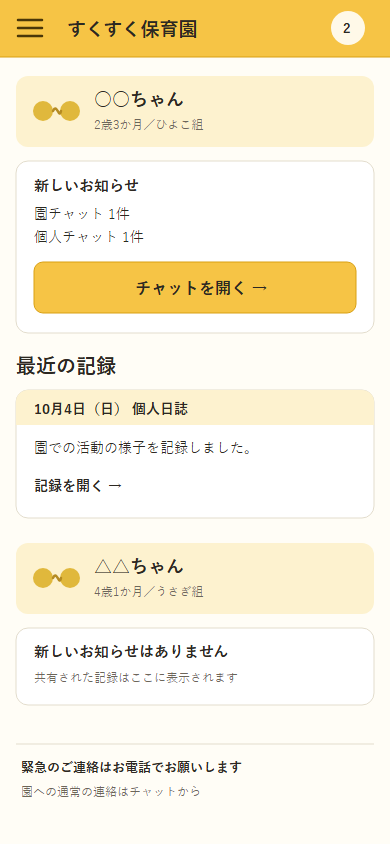
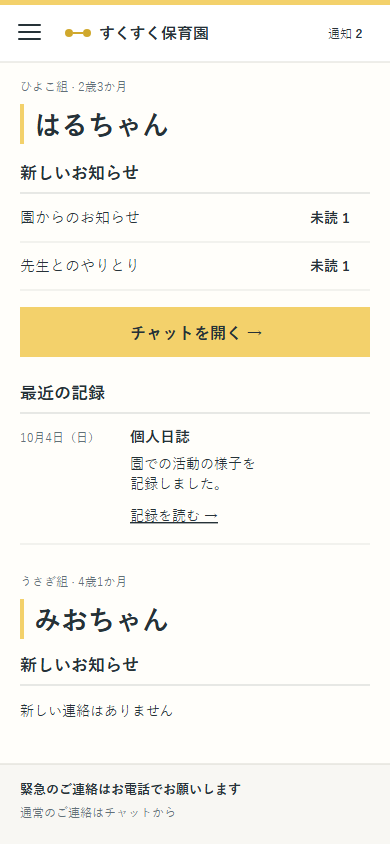
画面見本の汎用的な装飾を見直す

diff --git a/図/デザインアーキテクチャ案.md b/図/デザインアーキテクチャ案.md
@@ -4,16 +4,19 @@
 | :-- | :-- |
 | 状態 | チーム確認用のたたき台。要件・基本設計の確定事項は変更しない |
 | 作成日 | 2026-10-05 |
+| 改訂日 | 2026-10-05。GitHub Issue #72 を受け、初稿の均等なカード配置と飾りの線画を見直した |
 | 対象 | 職員ダッシュボード、保護者ホームを起点とする全画面の視覚表現 |
 | 典拠 | `README.md`「背景・コンセプト」「設計原則」、`要件定義書.md`「コンセプトとターゲット層」(1-1)、`基本設計書.md`「画面基本構成」(3-5)、`図/画面詳細図.md`「共通レイアウト」(1)・「職員ダッシュボード」(2-6)・「保護者ホーム」(2-7) |
 
 ## ねらい
 
-**「つながる線」「記録帳」「作業台」を1つの仕組みとして扱う。** 保護者と保育士に共通する色・文字・アイコンを持ち、見ることが中心の画面には記録帳の読みやすさ、入力と確認が中心の画面には作業台の素早さを適用する。「つながる線」は画面間の共通する形と挿絵に使う。園児の情報や写真より目立つ装飾にはしない。
+**「つながる線」「記録帳」「作業台」を1つの仕組みとして扱う。** 保護者と保育士に共通する色・文字・アイコンを持ち、見ることが中心の画面には記録帳の読みやすさ、入力と確認が中心の画面には作業台の素早さを適用する。「つながる線」はサービス名の脇にある小さな印に留める。園児の情報や写真より目立つ装飾にはしない。
+
+初稿の画面見本は、**同じ大きさの角丸カードを繰り返し、意味のない曲線を飾ったため、実際の連絡や作業から離れた見た目になった。** 改訂版では未対応を行の一覧にし、保護者の記録は日付・種類・本文の順に読む構成へ変えた。黄色を画面全面に敷かず、現在地と主な操作に絞る。
 
 | 層 | 共通するもの | 職員向け | 保護者向け |
 | :-- | :-- | :-- | :-- |
-| ブランド | 優しい黄色、角の丸み、細い曲線、同じアイコンの意味 | ヘッダと現在地の印に使う | ヘッダと案内に使う |
+| ブランド | 優しい黄色、2点をつなぐ小さな印、同じアイコンの意味 | 現在地と主な操作に使う | サービス名と主な操作に使う |
 | 情報 | 日付、園児名、共有状態、行き先を文字で示す | 件数と操作を先に置く | 園児ごとの記録と連絡を先に置く |
 | 画像 | UI素材と園児写真を分離する | 業務中の挿絵を抑える | 写真がある記録では写真を主役にする |
 | 操作 | 44×44px以上の操作領域と明確なラベル | 12カラム、サイドナビ | シングルカラム、メニュー |
@@ -22,30 +25,31 @@
 
 ### 色
 
-次の具体値は**画面案を比較するための仮値**であり、確定した設計値ではない。Go + React モックアップの `web/src/styles/tokens.css` にある値を起点にする。採用時は同ファイルの `web/仮置き値.md` の扱いを確認し、実画面で文字の読みやすさを検証する。
+次の具体値は**画面案を比較するための仮値**であり、確定した設計値ではない。既存モックアップの `web/src/styles/tokens.css` とは異なる候補色を試している。採用時は `web/仮置き値.md` の扱いを確認し、実画面で文字の読みやすさを検証する。
 
 | 役割 | 仮の色 | 使い方 |
 | :-- | :-- | :-- |
-| 主色 | `#F6C445` | ヘッダ、主要ボタン、現在地。黄色の上の文字は濃い色にする |
-| 主色の淡色 | `#FDF2CF` | 選択中の行、記録の見出し、控えめな強調 |
-| 背景 | `#FFFDF6` | 画面全体。本文カードは白で分ける |
-| 本文 | `#2C2822` | 日付、園児名、本文、ボタン名 |
-| 警告 | `#C62828` | 午睡の異常・エラーなど、対処が必要な情報に使う |
+| 主色 | `#F3D16B` | 画面上端の細い線、主要ボタン、現在地。黄色の上の文字は濃い色にする |
+| 地の色 | `#F8F7F3` | 職員画面の背景。情報のある面は白で分ける |
+| 保護者画面の背景 | `#FFFEFA` | 記録を読む面。区切りは細い線で示す |
+| 本文 | `#263238` | 日付、園児名、本文、ボタン名 |
+| 警告 | 既存設計の警告色を使用 | 午睡の異常・エラーなど、対処が必要な情報に使う。今回の見本には警告状態を含めない |
 
 黄色を「安心」「正常」の判定には使わない。警告は色だけに依存せず、対象・状態・必要な操作を文字で示す。日誌の下書き・申請・差し戻し・承認済みも、色と状態名を一緒に表示する。
 
 ### 形・文字・アイコン
 
-- カードとボタンは既存モックアップの角丸を基準にする。記録帳らしさは**日付の見出し、区切り線、余白**で表し、紙の背景模様や手書き文字を本文には使わない。
+- すべての情報をカードに入れない。職員の未対応は**1行に1件の一覧**、保護者の記録は**日付を添えた段落**で表す。区切り線と余白で関係を示す。
+- 角丸、影、背景模様を装飾として重ねない。ボタンと情報の領域を、色だけでなく位置と文字で区別する。
 - アイコンは同じ太さの線画で統一する。意味が必要な操作には「チャットを開く」「日誌を書く」などの文字を添える。アイコンだけの操作は共通ヘッダのメニュー・通知などに限る。
-- 「つながる線」はヘッダや空の状態の挿絵に使う。園児の写真、入力欄、件数、警告の上には重ねない。
+- 「つながる線」はサービス名の脇の小さな印に使う。園児の写真、入力欄、件数、警告の上には重ねない。空の状態も、まず「新しい連絡はありません」のような文で示す。
 - 装飾的な子どもの絵は年齢・性別・発達段階を推測させる記号として使わない。発達チェックの結果を表情や色で評価しない。
 
 ## 画像素材の構成
 
 | 種類 | 用途と配置 | 管理・表示 |
 | :-- | :-- | :-- |
-| ブランドの線画 | トップ、利用開始の案内、記録やメッセージがない状態 | アプリに同梱する共通素材。差し替えやすいよう画面本文と分離する |
+| ブランドの線画 | サービス名の脇に置く「2点をつなぐ線」の小さな印 | アプリに同梱する共通素材。空の状態や業務画面を無理に絵で埋めない |
 | 機能アイコン | 日誌、チャット、午睡、発達、園児管理、通知 | 同じ意味に同じ絵を使い、文字ラベルを併記する |
 | 園児が写る写真 | 日誌とチャットの添付 | UI素材と混ぜず、`基本設計書.md`「添付ファイルの実体の保存先」(5-5) の権限判定を経て配信する。共有された記録のみ保護者に見せる |
 | 画面画像 | 設計・提出用の実画面 | `図/画面画像/` で管理し、実装が変われば撮り直す（`図/画面詳細図.md`「表記ルール」(0-1)） |

diff --git a/修正箇所/00_INDEX.md b/修正箇所/00_INDEX.md
@@ -13,7 +13,7 @@
 | 03 | [03_要件定義書_穴レビュー.md](03_要件定義書_穴レビュー.md) | 要件定義書 第1.4版・発達チェック要件定義書 第2.0版の横断レビュー。論理矛盾6件（招待コードと複数保護者の矛盾など）／未定義の機能領域8件（年度更新・欠席連絡・利用規約など）／実装で詰まる曖昧さ9件、計23件 | 22件対応済み（第1.5版）／B-7 欠席連絡のみ判断待ち |
 | 04 | [04_マスタ文書_身体記録_修正指示.md](04_マスタ文書_身体記録_修正指示.md) | マスタ文書「基本設計書」（Google ドキュメント）の遅れに対する差分指示6件と、他パートへの申し送り11件 | **役割を終えた**（2026/09/07）。**Google ドキュメント側のマスタを廃止し、リポジトリの `.md` に一本化した**ため、差分を当てる先が無くなった。旧文書は Drive で `【退役】基本設計書（旧版・2026-09-01時点）` へ改名済み。履歴として残す |
 | 05 | [05_ガントチャート_中間発表_修正指示.md](05_ガントチャート_中間発表_修正指示.md) | `チーム用ガントチャート_PC.xlsx`（Drive「ガントチャート」フォルダ）の中間発表本番が 2026/11/21（土）のまま。実際は **2026/11/25（水）・会場なはーと**。差分3件と、前工程（台本・原稿・リハーサル）を後ろ倒しするかの判断待ち3件 | **適用待ち**（書き込み許可フォルダ外のため、編集権限を持つメンバーが適用する） |
-| 06 | [06_デザイン見本_見た目レビュー.md](06_デザイン見本_見た目レビュー.md) | 職員ダッシュボードと保護者ホームの画面見本が汎用的に見えるという指摘（GitHub Issue #72） | 対応中 |
+| 06 | [06_デザイン見本_見た目レビュー.md](06_デザイン見本_見た目レビュー.md) | 職員ダッシュボードと保護者ホームの画面見本が汎用的に見えるという指摘（GitHub Issue #72） | 改訂案を提示・確認待ち |
 
 ### No.01 の対応経緯（棚卸し：2026/08/27）
 
